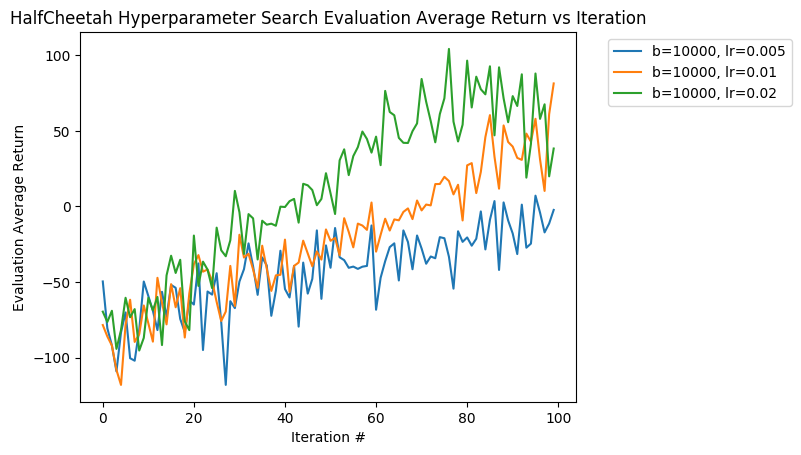
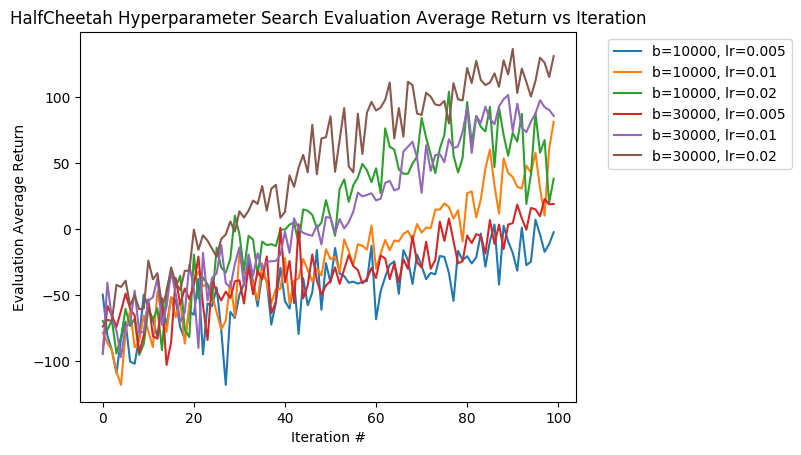
WIP Cheetah param search 2/3

diff --git a/hw2/visualize.py b/hw2/visualize.py
@@ -94,9 +94,9 @@ filenames = [
     'experiment_csv/run-q4_search_b10000_lr0.005_rtg_nnbaseline_HalfCheetah-v2_27-09-2021_02-07-06-tag-Eval_AverageReturn.csv',
     'experiment_csv/run-q4_search_b10000_lr0.01_rtg_nnbaseline_HalfCheetah-v2_27-09-2021_02-07-28-tag-Eval_AverageReturn.csv',
     'experiment_csv/run-q4_search_b10000_lr0.02_rtg_nnbaseline_HalfCheetah-v2_27-09-2021_02-07-48-tag-Eval_AverageReturn.csv',
-    # 'experiment_csv/run-q4_search_b10000_lr0.005_rtg_nnbaseline_HalfCheetah-v2_27-09-2021_02-07-06-tag-Eval_AverageReturn.csv',
-    # 'experiment_csv/run-q4_search_b10000_lr0.01_rtg_nnbaseline_HalfCheetah-v2_27-09-2021_02-07-28-tag-Eval_AverageReturn.csv',
-    # 'experiment_csv/run-q4_search_b10000_lr0.02_rtg_nnbaseline_HalfCheetah-v2_27-09-2021_02-07-48-tag-Eval_AverageReturn.csv',
+    'experiment_csv/run-q4_search_b30000_lr0.005_rtg_nnbaseline_HalfCheetah-v2_27-09-2021_02-08-02-tag-Eval_AverageReturn.csv',
+    'experiment_csv/run-q4_search_b30000_lr0.01_rtg_nnbaseline_HalfCheetah-v2_27-09-2021_02-08-18-tag-Eval_AverageReturn.csv',
+    'experiment_csv/run-q4_search_b30000_lr0.02_rtg_nnbaseline_HalfCheetah-v2_27-09-2021_02-08-32-tag-Eval_AverageReturn.csv',
     # 'experiment_csv/run-q4_search_b10000_lr0.005_rtg_nnbaseline_HalfCheetah-v2_27-09-2021_02-07-06-tag-Eval_AverageReturn.csv',
     # 'experiment_csv/run-q4_search_b10000_lr0.01_rtg_nnbaseline_HalfCheetah-v2_27-09-2021_02-07-28-tag-Eval_AverageReturn.csv',
     # 'experiment_csv/run-q4_search_b10000_lr0.02_rtg_nnbaseline_HalfCheetah-v2_27-09-2021_02-07-48-tag-Eval_AverageReturn.csv'
@@ -107,9 +107,9 @@ labels = [
     'b=10000, lr=0.005',
     'b=10000, lr=0.01',
     'b=10000, lr=0.02',
-    # 'b=30000, lr=0.005',
-    # 'b=30000, lr=0.01',
-    # 'b=30000, lr=0.02',
+    'b=30000, lr=0.005',
+    'b=30000, lr=0.01',
+    'b=30000, lr=0.02',
     # 'b=50000, lr=0.005',
     # 'b=50000, lr=0.01',
     # 'b=50000, lr=0.02',

diff --git a/hw2/README.md b/hw2/README.md
@@ -130,3 +130,31 @@ python cs285/scripts/run_hw2.py --env_name HalfCheetah-v2 --ep_len 150 \
 --discount 0.95 -n 100 -l 2 -s 32 -b 50000 -lr 0.02 -rtg --nn_baseline \
 --exp_name q4_search_b50000_lr0.02_rtg_nnbaseline
 ```
+
+# Experiment 5
+Commands used:
+```
+python cs285/scripts/run_hw2.py \
+--env_name Hopper-v2 --ep_len 1000 \
+--discount 0.99 -n 300 -l 2 -s 32 -b 2000 -lr 0.001 \
+--reward_to_go --nn_baseline --action_noise_std 0.5 --gae_lambda 0 \
+--exp_name q5_b2000_r0.001_lambda0
+
+python cs285/scripts/run_hw2.py \
+--env_name Hopper-v2 --ep_len 1000 \
+--discount 0.99 -n 300 -l 2 -s 32 -b 2000 -lr 0.001 \
+--reward_to_go --nn_baseline --action_noise_std 0.5 --gae_lambda 0.95 \
+--exp_name q5_b2000_r0.001_lambda0.95
+
+python cs285/scripts/run_hw2.py \
+--env_name Hopper-v2 --ep_len 1000 \
+--discount 0.99 -n 300 -l 2 -s 32 -b 2000 -lr 0.001 \
+--reward_to_go --nn_baseline --action_noise_std 0.5 --gae_lambda 0.99 \
+--exp_name q5_b2000_r0.001_lambda0.99
+
+python cs285/scripts/run_hw2.py \
+--env_name Hopper-v2 --ep_len 1000 \
+--discount 0.99 -n 300 -l 2 -s 32 -b 2000 -lr 0.001 \
+--reward_to_go --nn_baseline --action_noise_std 0.5 --gae_lambda 1 \
+--exp_name q5_b2000_r0.001_lambda1
+```
